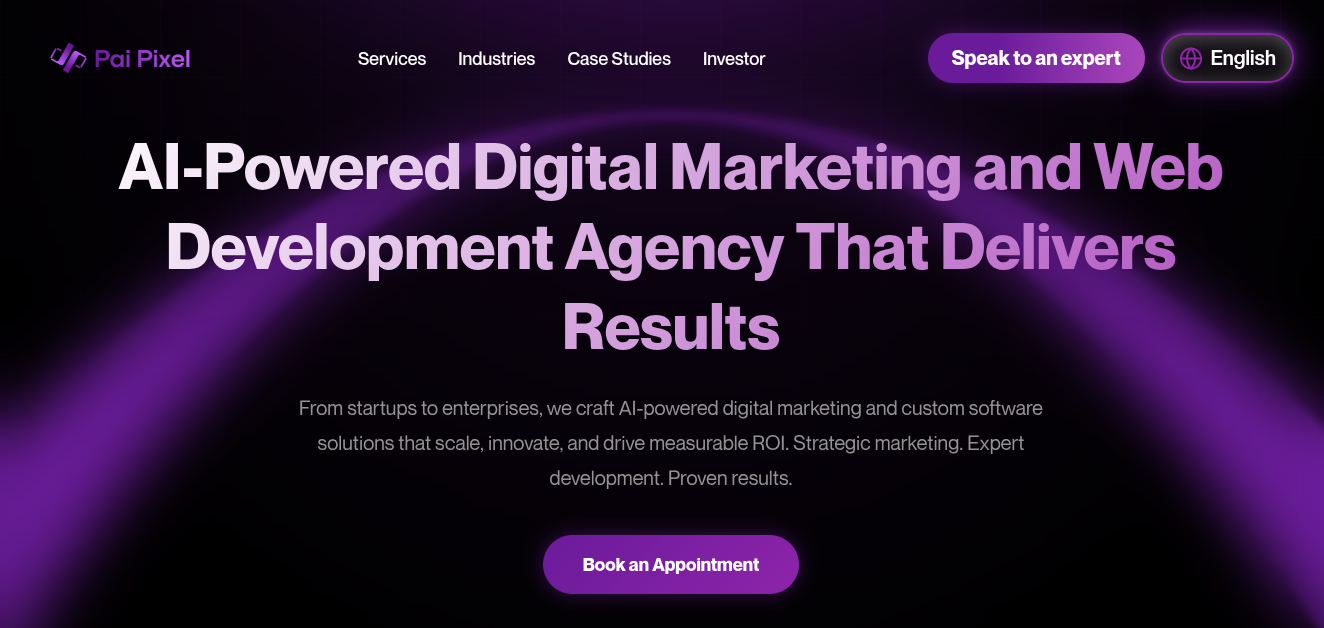
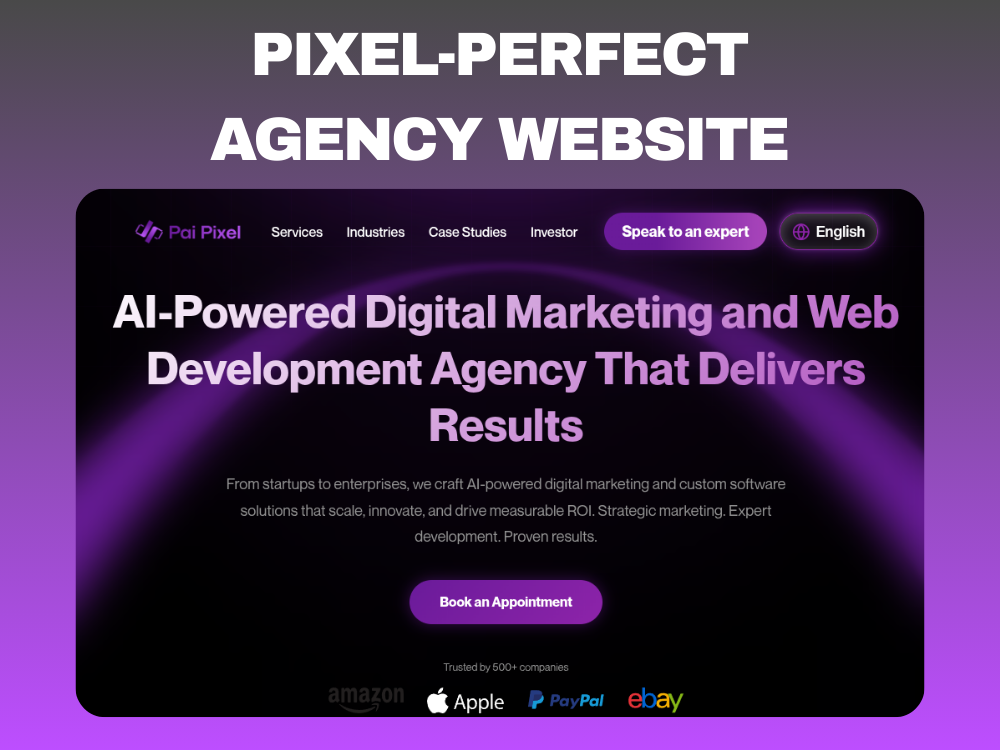
updates on project and scroll to top feature

diff --git a/components/projects.tsx b/components/projects.tsx
@@ -3,20 +3,29 @@ import { IconBrandGithub, IconExternalLink, } from "@tabler/icons-react"
 import { Badge } from "./ui/badge"
 import { useRef } from "react"
 import { Button } from "./ui/button"
+import { title } from "process"
 
 export default function Projects() {
   const projects = [
     {
-      title: "Resource Hub",
+      title: "Realtime Chat",
       type: "Web App",
       badgeColor: "bg-green-400",
-      description: "A web platform where users can request books, download books, and subscribe to a newsletter – all in a seamless, secure, and responsive experience.",
-      liveLink: "https://r-hub.xyz",
-      gitLink: "https://github.com/tanzimKshanto/resource-hub",
-      stacks: ["Next.js", "TypeScript", "Firebase", "Shadcn/UI"],
-      img: "/images/resourceHub.png",
-      hasLive: true,
-      hasGit: true
+      description: "Built a modern real-time chat app with instant messaging via WebSockets, supporting reactions, threaded replies, message pinning, jump-to-latest, and a responsive UI that works smoothly across devices.",
+      stacks: ["WebSockets", "Next.js", "Nest.js", "Redis", "TypeScript"],
+      img: "/images/realtimeChat.png",
+      hasLive: false,
+      hasGit: false
+    },
+    {
+      title: "Drag-and-Drop Form Builder",
+      type: "Web App",
+      badgeColor: "bg-green-400",
+      description: "Built an interactive drag-and-drop assessment builder that lets users visually create, reorder, and edit forms or tests in real time—no coding required. Features a responsive, intuitive interface and scalable architecture for smooth handling of complex assessments.",
+      stacks: ["Next.js", "TypeScript", "Figma", "DnD Kit"],
+      img: "/images/assessmentBuilder.png",
+      hasLive: false,
+      hasGit: false
     },
     {
       title: "PaiPixel",
@@ -30,16 +39,28 @@ export default function Projects() {
       hasGit: false
     },
     {
-      title: "NetMeter Lite",
-      type: "Windows Software",
-      badgeColor: "bg-red-400",
-      description: "NetMeter Lite is a lightweight, real-time monitoring tool for network speed, CPU, and memory usage, offering a simple and customizable interface for Windows. Perfect for users who want to keep track of their device’s performance without any hassle.",
-      gitLink: "https://github.com/tanzimKshanto/NetMeter-Lite",
-      stacks: ["Python", "Tkinter", "Pyinstaller", "Pywin32"],
-      img: "/images/netmeterLite.png",
-      hasLive: false,
+      title: "Resource Hub",
+      type: "Web App",
+      badgeColor: "bg-green-400",
+      description: "A web platform where users can request books, download books, and subscribe to a newsletter – all in a seamless, secure, and responsive experience.",
+      liveLink: "https://r-hub.xyz",
+      gitLink: "https://github.com/tanzimKshanto/resource-hub",
+      stacks: ["Next.js", "TypeScript", "Firebase", "Shadcn/UI"],
+      img: "/images/resourceHub.png",
+      hasLive: true,
       hasGit: true
     },
+    // {
+    //   title: "NetMeter Lite",
+    //   type: "Windows Software",
+    //   badgeColor: "bg-red-400",
+    //   description: "NetMeter Lite is a lightweight, real-time monitoring tool for network speed, CPU, and memory usage, offering a simple and customizable interface for Windows. Perfect for users who want to keep track of their device’s performance without any hassle.",
+    //   gitLink: "https://github.com/tanzimKshanto/NetMeter-Lite",
+    //   stacks: ["Python", "Tkinter", "Pyinstaller", "Pywin32"],
+    //   img: "/images/netmeterLite.png",
+    //   hasLive: false,
+    //   hasGit: true
+    // },
     // {
     //   title: "Media Rush",
     //   type: "Discord Bot",
@@ -78,7 +99,7 @@ export default function Projects() {
             rel="noopener noreferrer"
             key={index}
             className="grid sm:grid-cols-10 grid-cols-1 gap-4 group cursor-pointer hover:bg-primary/10 border-t-2 border-t-transparent hover:border-t-primary/30 transition-all hover:shadow-md p-4">
-            <div className={`aspect-5/3 sm:row-span-full sm:col-span-5 ${index & 1 ? "sm:col-end-11" : "sm:col-start-1"} relative`}>
+            <div className={`aspect-99/79 sm:row-span-full sm:p-6 sm:col-span-5 ${index & 1 ? "sm:col-end-11" : "sm:col-start-1"} relative`}>
               {/* <div className="absolute inset-0 bg-primary mix-blend-screen group-hover:bg-transparent transition-all" /> */}
               <img src={project.img} alt={project.title} className={`h-full w-full border-2 border-zinc-200 group-hover:border-zinc-300 transition-all`} />
             </div>

diff --git a/components/scrollToTop.tsx b/components/scrollToTop.tsx
@@ -1,0 +1,36 @@
+"use client";
+
+import { useEffect, useState } from "react";
+import { IconChevronUp } from "@tabler/icons-react";
+
+export default function ScrollToTop() {
+  const [visible, setVisible] = useState(false);
+
+  useEffect(() => {
+    const handleScroll = () => {
+      if (window.scrollY > 100) {
+        setVisible(true);
+      } else {
+        setVisible(false);
+      }
+    };
+
+    window.addEventListener("scroll", handleScroll);
+    return () => window.removeEventListener("scroll", handleScroll);
+  }, []);
+
+  return (
+    <button
+      onClick={() => window.scrollTo({ top: 0, behavior: "smooth" })}
+      className={`fixed flex cursor-pointer flex-col px-2 pb-1 items-center bg-transparent hover:bg-primary/20 focus:outline-hidden dark:focus:outline-hidden border-primary border-2 dark:border-primary z-100 bottom-10 right-10
+      transition-all duration-600
+      ${visible
+          ? "opacity-100 translate-y-0"
+          : "opacity-0 translate-y-10 pointer-events-none"
+        }`}
+    >
+      <IconChevronUp stroke={4} className="w-4 h-4 text-primary" />
+      <span className="text-primary text-xs">TOP</span>
+    </button>
+  );
+}

diff --git a/app/page.tsx b/app/page.tsx
@@ -4,11 +4,13 @@ import Footer from "@/components/footer";
 import Hero from "@/components/hero";
 import Menubar from "@/components/menubar";
 import Projects from "@/components/projects";
+import ScrollToTop from "@/components/scrollToTop";
 
 export default function Page() {
   return (
-    <div className="flex flex-col items-center grid-bg">
+    <div className="flex relative flex-col items-center grid-bg">
       <Menubar />
+      <ScrollToTop />
       <div className="container relative flex flex-col">
         {/* <div className="absolute inset-0 bg-halftone-fade" /> */}
         <Hero />
